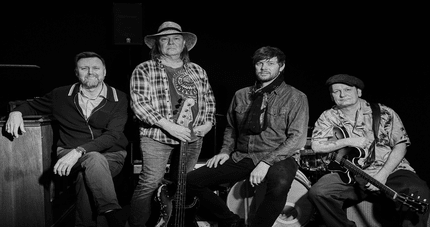
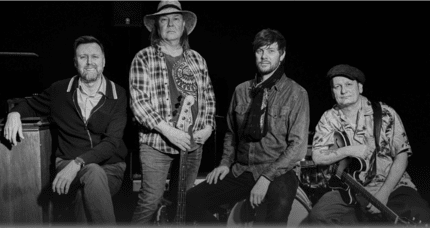
billeder, footer, sponsorForside fix

diff --git a/programTor.html b/programTor.html
@@ -111,7 +111,7 @@
           <div class="kunstnerIndhold kunstnerbilledeContainer">
             <a href="#vindue1"
               ><img
-                src="./assets/img/kunsterBilleder/bronderslev.jpg"
+                src="./assets/img/kunsterBilleder/broenderslev.png"
                 alt="Brønderslev Bigband"
             /></a>
           </div>
@@ -157,7 +157,7 @@
           <div class="kunstnerIndhold kunstnerbilledeContainer">
             <a href="#vindue2"
               ><img
-                src="./assets/img/kunsterBilleder/./hp lange.jpg"
+                src="./assets/img/kunsterBilleder/hpLange.png"
                 alt="Brønderslev Bigband"
             /></a>
           </div>
@@ -201,7 +201,7 @@
           <div class="kunstnerIndhold kunstnerbilledeContainer">
             <a href="#vindue3"
               ><img
-                src="./assets/img/kunsterBilleder/humbleMen.jpg"
+                src="./assets/img/kunsterBilleder/humbleMen.png"
                 alt="Brønderslev Bigband"
             /></a>
           </div>
@@ -251,7 +251,7 @@
           <div class="kunstnerIndhold kunstnerbilledeContainer">
             <a href="#vindue4"
               ><img
-                src="./assets/img/kunsterBilleder/jazzDippers.jpg"
+                src="./assets/img/kunsterBilleder/jazzDippers.png"
                 alt="Brønderslev Bigband"
             /></a>
           </div>
@@ -345,7 +345,7 @@
           <div class="kunstnerIndhold kunstnerbilledeContainer">
             <a href="#vindue6"
               ><img
-                src="./assets/img/kunsterBilleder/JungleTrio.jpg"
+                src="./assets/img/kunsterBilleder/newJungle.png"
                 alt="Brønderslev Bigband"
             /></a>
           </div>
@@ -391,7 +391,7 @@
           <div class="kunstnerIndhold kunstnerbilledeContainer">
             <a href="#vindue7"
               ><img
-                src="./assets/img/kunsterBilleder/shadowGovernment.jpg"
+                src="./assets/img/kunsterBilleder/shadow.png"
                 alt="Brønderslev Bigband"
             /></a>
           </div>
@@ -436,7 +436,7 @@
           <div class="kunstnerIndhold kunstnerbilledeContainer">
             <a href="#vindue8"
               ><img
-                src="./assets/img/kunsterBilleder/theMidnights.jpg"
+                src="./assets/img/kunsterBilleder/theMidnights.png"
                 alt="Brønderslev Bigband"
             /></a>
           </div>
@@ -483,7 +483,7 @@
           <div class="kunstnerIndhold kunstnerbilledeContainer">
             <a href="#vindue9"
               ><img
-                src="./assets/img/kunsterBilleder/tomiLeino.jpg"
+                src="./assets/img/kunsterBilleder/tomiLeino.png"
                 alt="Brønderslev Bigband"
             /></a>
           </div>
@@ -526,7 +526,7 @@
           <div class="kunstnerIndhold kunstnerbilledeContainer">
             <a href="#vindue10"
               ><img
-                src="./assets/img/kunsterBilleder/wash.jpg"
+                src="./assets/img/kunsterBilleder/washAndKjaer.png"
                 alt="Brønderslev Bigband"
             /></a>
           </div>

diff --git a/index.html b/index.html
@@ -75,7 +75,9 @@
         <section class="forsidenyheder">
             <div>
                 <p>
-                    Den blå festival er en af landets største genrefestivaler, og udvikles og afvikles af ca. 100 aktive musikvenner.Der er to store udendørs scener med festivalens hovedprogram, og dertil er der koncerter på mange af byens cafeer, værtshuse og spillesteder.En bestyrelsesamler trådene og sætter skibet i søen. Den vælges af medlemmerne, og dertil er der bestyrelsesmedlemmer udpeget af de deltagende musikforeninger.Det økonomiske fundament for festivalens mange tilbud skabes ved salg i egne boder, tilskud fra Aalborg kommune og ved opbakning fra en række sponsorer og annoncører.
+                    Den blå festival er en af landets største genrefestivaler, og udvikles og afvikles af ca. 100 aktive musikvenner. Der er to store udendørs scener med festivalens hovedprogram, og dertil er der koncerter på mange af byens cafeer, værtshuse og spillesteder.
+                    <!-- En bestyrelsesamler trådene og sætter skibet i søen.  -->
+                    <!-- Den vælges af medlemmerne, og dertil er der bestyrelsesmedlemmer udpeget af de deltagende musikforeninger.Det økonomiske fundament for festivalens mange tilbud skabes ved salg i egne boder, tilskud fra Aalborg kommune og ved opbakning fra en række sponsorer og annoncører. -->
                 </p>
                 <h2>Nyheder</h2>
                 <div class="slideshow-container">
@@ -91,7 +93,7 @@
                     
                     <div class="mySlides fade">
                       <div class="numbertext">2 / 3</div>
-                      <img src="./assets/img/kunsterBilleder/jazzDippers.jpg" style="width:100%">
+                      <img src="./assets/img/kunsterBilleder/jazzDippers.png" style="width:100%">
                       <div class="text"></div>
                       <p>Ved du ikke hvad du skal lave på lørdag?
                         Kom og lyt til fantastisk jazz musik med følgende kunstnere
@@ -136,9 +138,9 @@
           <div class="sponsorerForside">
               <h2>Sponsorater</h2>
               <div class="sponsorBilledeForside">
-                <img src="./assets/img/sponsorlogoer/tuborgHvid.png " sizes="" alt="">
-                <img src="./assets/img/sponsorlogoer/aalborgHvid.webp" alt="">
-                <img src="./assets/img/sponsorlogoer/sallingHvid.webp" alt="">
+                <img src="./assets/img/sponsorlogoer/tuborgWhite.png " sizes="" alt="">
+                <img src="./assets/img/sponsorlogoer/aalborgWhite-3.webp" alt="">
+                <img src="./assets/img/sponsorlogoer/sallingWhite.webp" alt="">
               </div>
             
         </div>

diff --git a/programFre.html b/programFre.html
@@ -107,7 +107,7 @@
           <div class="kunstnerIndhold kunstnerbilledeContainer">
             <a href="#vindue11"
               ><img
-                src="./assets/img/kunsterBilleder/TheDownshifters.jpg"
+                src="./assets/img/kunsterBilleder/theDownshifters.png"
                 alt="Brønderslev Bigband"
             /></a>
           </div>
@@ -152,7 +152,7 @@
           <div class="kunstnerIndhold kunstnerbilledeContainer">
             <a href="#vindue12"
               ><img
-                src="./assets/img/kunsterBilleder/iceMo.jpg"
+                src="./assets/img/kunsterBilleder/iceMo.png"
                 alt="Brønderslev Bigband"
             /></a>
           </div>
@@ -201,7 +201,7 @@
           <div class="kunstnerIndhold kunstnerbilledeContainer">
             <a href="#vindue13"
               ><img
-                src="./assets/img/kunsterBilleder/heroyaMusikkorps.png"
+                src="./assets/img/kunsterBilleder/heroeya.png"
                 alt="Brønderslev Bigband"
             /></a>
           </div>
@@ -243,7 +243,7 @@
           <div class="kunstnerIndhold kunstnerbilledeContainer">
             <a href="#vindue14"
               ><img
-                src="./assets/img/kunsterBilleder/markHummel.jpg"
+                src="./assets/img/kunsterBilleder/markHummel.png"
                 alt="Brønderslev Bigband"
             /></a>
           </div>

diff --git a/assets/css/style.css b/assets/css/style.css
@@ -94,6 +94,7 @@ p {
   justify-content: center;
   flex-direction: column;
   align-items: center;
+  width: 100%;
 }
 
 .soMe p {
@@ -103,8 +104,11 @@ p {
 
 .footerIcons {
   font-size: 30px;
-  margin-bottom: 2rem;
+  margin-bottom: 3rem;
   margin-top: 1rem;
+  width: 60%;
+  display: flex;
+  justify-content: space-around;
 }
 
 /* footer slut */
@@ -188,7 +192,7 @@ p {
 
 .heroBillede h1 {
   background-image: url(../img/entryPoints/hero.jpg);
-  height: 266px;
+  height: 30vh;
   margin-top: 0px;
   color: var(--white);
   background-repeat: no-repeat;
@@ -199,15 +203,16 @@ p {
 
 .sponsorBilledeForside { 
   display: flex;
-  justify-content: space-between;
+  justify-content: space-around;
   gap: 2rem;
+  margin-bottom: 1rem
 ;
 
 
 }
 .sponsorerForside img {
-  height: 3rem;
-  width: 100%;
+  height: 100%;
+  width: 5rem;
   color: var(--white);
   margin-bottom: 20px;
 
@@ -235,6 +240,10 @@ p {
 
 .mySlides {
   display: none;
+}
+
+.mySlides p {
+  color: var(--lightBlue);
 }
 img {
   vertical-align: middle;
@@ -285,7 +294,7 @@ img {
 /* Fading animation */
 .fade {
   animation-name: fade;
-  animation-duration: 1.5s;
+  animation-duration: 5s;
 }
 
 @keyframes fade {
@@ -935,6 +944,9 @@ li {
 
 .backgroundBeigeSponsor article {
   margin-bottom: 2rem;
+}
+#programRedaktion {
+  padding-bottom: 2rem;
 }
 
 /* sponsorater slut */

diff --git a/sponsorater.html b/sponsorater.html
@@ -152,7 +152,7 @@
               Søren Lindholt Hansen, 6062 4411 Følg med på www.denblaafestival.dk
               og facebook.
             </p>
-            <p>
+            <p id="programRedaktion">
               Programredaktion: Søren Lindholt Hansen (ansv.) Ret til forbedringer
               forbeholdes. Der tages forbehold for trykfejl.
             </p>

diff --git a/programLør.html b/programLør.html
@@ -111,7 +111,7 @@
           <div class="kunstnerIndhold kunstnerbilledeContainer">
             <a href="#vindue15"
               ><img
-                src="./assets/img/kunsterBilleder/image-231.jpg"
+                src="./assets/img/kunsterBilleder/villie.png"
                 alt="Brønderslev Bigband"
             /></a>
           </div>
